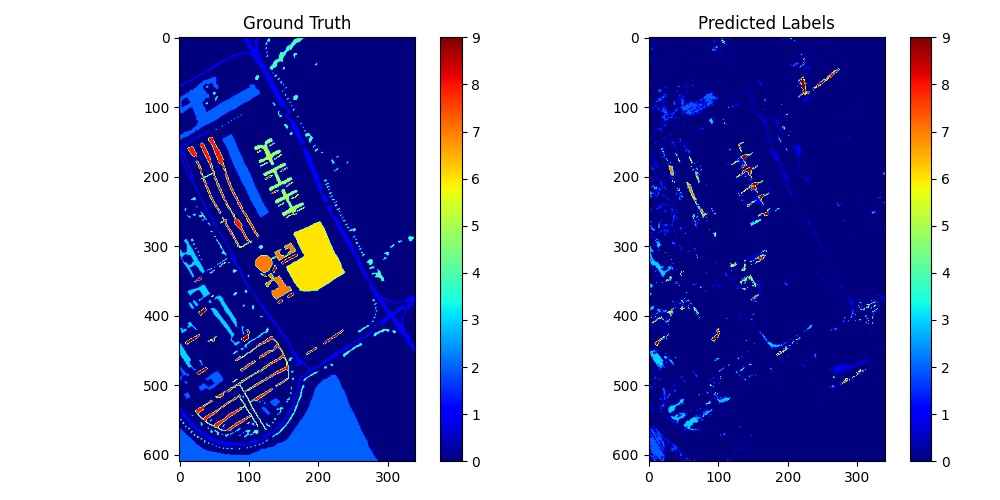
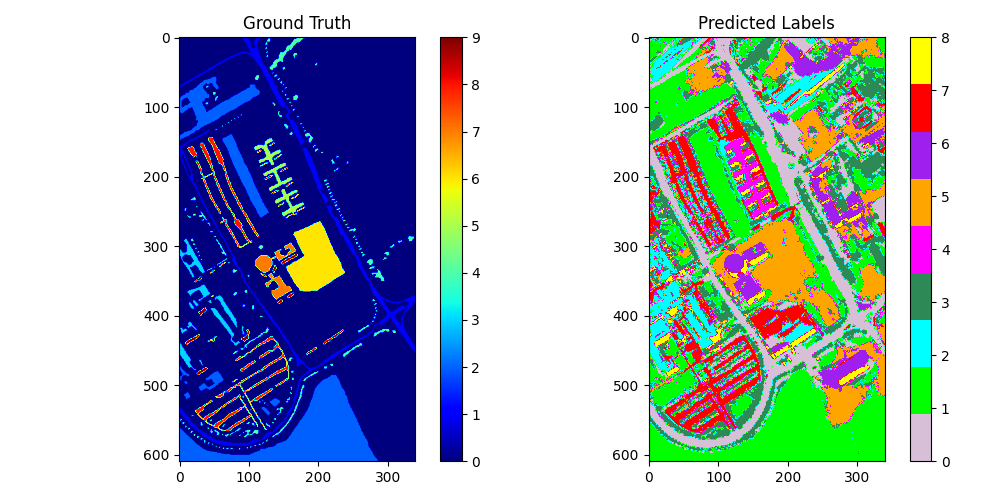
RPNet-MLP

Changed region(s): [[0.651, 0.06, 0.961, 0.93]]

diff --git a/main.py b/main.py
@@ -17,9 +17,11 @@ import numpy as np
 from sklearn.metrics import classification_report, confusion_matrix
 from utlils import *
 from model import MLP
+from matplotlib.colors import ListedColormap
+device = torch.device("cuda" if torch.cuda.is_available() else "cpu")  # 检查是否有GPU可用
 
 def train_mlp(X_train, y_train, X_test, y_test, input_size, hidden_size, num_classes, epochs=20, learning_rate=0.001):
-    device = torch.device("cuda" if torch.cuda.is_available() else "cpu")  # 检查是否有GPU可用
+    
 
     # 初始化模型并移至GPU
     model = MLP(input_size, hidden_size, num_classes).to(device)
@@ -32,6 +34,11 @@ def train_mlp(X_train, y_train, X_test, y_test, input_size, hidden_size, num_cla
     X_test = torch.from_numpy(X_test).float().to(device)
     y_test = torch.from_numpy(y_test).long().to(device)
 
+    # 记录训练集和测试集的损失
+    train_loss_list = []
+    test_loss_list = []
+    test_accuracy_list = []
+
     # 开始训练
     for epoch in range(epochs):
         model.train()  # 设置模型为训练模式
@@ -40,10 +47,33 @@ def train_mlp(X_train, y_train, X_test, y_test, input_size, hidden_size, num_cla
         loss = criterion(outputs, y_train)  # 计算损失
         loss.backward()  # 反向传播
         optimizer.step()  # 更新参数
+        train_loss_list.append(loss.item())
+
+        # 测试集评估
+        model.eval()  # 设置模型为评估模式
+        with torch.no_grad():
+            test_outputs = model(X_test)
+            test_loss = criterion(test_outputs, y_test)
+            test_loss_list.append(test_loss.item())
+            
+            _, predicted = torch.max(test_outputs.data, 1)  # 获取预测值
+            test_accuracy = accuracy_score(y_test.cpu().numpy(), predicted.cpu().numpy())
+            test_accuracy_list.append(test_accuracy)
 
         if (epoch+1) % 5 == 0:
-            print(f'Epoch [{epoch+1}/{epochs}], Loss: {loss.item():.4f}')
-    
+            print(f'Epoch [{epoch+1}/{epochs}], Train Loss: {train_loss_list[-1]:.4f}, Test Loss: {test_loss_list[-1]:.4f}, Test Accuracy: {test_accuracy * 100:.2f}%')
+
+    # 绘制loss曲线
+    plt.figure(figsize=(10, 6))
+    plt.plot(range(epochs), train_loss_list, label='Train Loss')
+    plt.plot(range(epochs), test_loss_list, label='Test Loss')
+    plt.xlabel('Epoch')
+    plt.ylabel('Loss')
+    plt.legend()
+    plt.title('Training and Testing Loss')
+    plt.savefig('loss_curve.png')
+    plt.show()
+
     # 评估模型
     model.eval()  # 设置模型为评估模式
     with torch.no_grad():
@@ -67,16 +97,15 @@ def train_mlp(X_train, y_train, X_test, y_test, input_size, hidden_size, num_cla
         plt.title('Confusion Matrix')
         plt.savefig('confusion_matrix.png')
         
-        print(f'Accuracy: {accuracy * 100:.2f}%')
-        print(f'Kappa: {kappa:.4f}')
+        print(f'Final Accuracy: {accuracy * 100:.2f}%')
+        print(f'Final Kappa: {kappa:.4f}')
     
     return model
-
-
 if __name__ == '__main__':
     parser = argparse.ArgumentParser(description='Land Cover Classification')
     parser.add_argument('--dataset', type=str, default='paviaU', help='dataset name (default: paviaU)')
-    parser.add_argument('--layer_num', type=int, default=4, help='number of Random Patches layers (default: 4)')
+    parser.add_argument('--layer_num', type=int, default=5, help='number of Random Patches layers')
+    parser.add_argument('--num_components', type=int, default=3, help='number of PCA components')
     args = parser.parse_args()
 
     #load data
@@ -90,7 +119,7 @@ if __name__ == '__main__':
         print('Invalid dataset name')
 
     #pca whitening
-    num_components = 3
+    num_components = 8
     data_pca = apply_PCA_Whitening(data, num_components)
     print('PCA Whitening done')
     print('PCA Whitened data shape:', data_pca.shape)
@@ -111,21 +140,72 @@ if __name__ == '__main__':
     # Flatten feature map for SVM input
     rpnet_features = RPNet_feature_map.numpy().reshape(-1, RPNet_feature_map.size(2))
     labels = ground_truth.flatten()
+    
+    # 选择非0类的所有样本
+    non_zero_indices = np.where(labels != 0)[0]
 
+    # 使用这些索引获取新的平衡后的labels
+    labels = labels[non_zero_indices] -1
+    rpnet_features = rpnet_features[non_zero_indices]
     # Split data into train and test sets
-    X_train, X_test, y_train, y_test = train_test_split(rpnet_features, labels, test_size=0.8, random_state=42, stratify=labels)
+    X_train, X_test, y_train, y_test = train_test_split(rpnet_features, labels, test_size=0.9, random_state=42, stratify=labels)
 
     # MLP参数
     input_size = X_train.shape[1]   # 输入特征的大小
     hidden_size = 4096      # 隐藏层神经元个数
-    num_classes = len(np.unique(labels))  # 分类的类别数
+    num_classes = len(np.unique(labels)) # 分类的类别数
     
     # 训练MLP模型
-    model = train_mlp(X_train, y_train, X_test, y_test, input_size, hidden_size, num_classes, epochs=400, learning_rate=1e-3)
+    model = train_mlp(X_train, y_train, X_test, y_test, input_size, hidden_size, num_classes, epochs=100, learning_rate=1e-3)
     # Save model
     torch.save(model.state_dict(), f'RPNet_MLP_{args.dataset}.pth')
     print('Model saved')
+    # 评估模型
+    model.eval()  # 设置模型为评估模式
+    X = torch.from_numpy(RPNet_feature_map.numpy().reshape(-1, RPNet_feature_map.size(2))).float().to(device)
+    with torch.no_grad():
+        outputs = model(X)
+        _, predicted = torch.max(outputs.data, 1)  # 获取预测值
+        
+        
+        # 绘制预测结果, 将ground_truth和predicted_labels绘制在一个图片中
+        predicted_labels = predicted.cpu().numpy()
+        # reshape predicted_labels
+        predicted_labels = predicted_labels.reshape(ground_truth.shape)
+        # 定义颜色调色板
+        palette = np.array([
+            [216, 191, 216],
+            [0, 255, 0],
+            [0, 255, 255],
+            [45, 138, 86],
+            [255, 0, 255],
+            [255, 165, 0],
+            [159, 31, 239],
+            [255, 0, 0],
+            [255, 255, 0]
+        ])
 
+        # 将颜色转换为范围 [0, 1] 之间的浮点数
+        palette = palette / 255.0
+
+        # 创建自定义颜色映射
+        cmap_custom = ListedColormap(palette)
+        plt.figure(figsize=(10, 5))
+
+        # 绘制真实标签
+        plt.subplot(1, 2, 1)
+        plt.title('Ground Truth')
+        plt.imshow(ground_truth, cmap='jet')
+        plt.colorbar()
+
+        # 绘制预测标签
+        plt.subplot(1, 2, 2)
+        plt.title('Predicted Labels')
+        plt.imshow(predicted_labels, cmap=cmap_custom)
+        plt.colorbar()
+
+        plt.tight_layout()
+        plt.savefig('comparison.png')
     
 
     

diff --git a/test.py b/test.py
@@ -16,7 +16,8 @@ import seaborn as sns
 if __name__ == '__main__':
     parser = argparse.ArgumentParser(description='Land Cover Classification')
     parser.add_argument('--dataset', type=str, default='paviaU', help='dataset name (default: paviaU)')
-    parser.add_argument('--layer_num', type=int, default=4, help='number of Random Patches layers (default: 4)')
+    parser.add_argument('--layer_num', type=int, default=6, help='number of Random Patches layers (default: 4)')
+    parser.add_argument('--num_components', type=int, default=8, help='number of PCA components (default: 8)')
     args = parser.parse_args()
 
     #load data
@@ -30,7 +31,7 @@ if __name__ == '__main__':
         print('Invalid dataset name')
 
     #pca whitening
-    num_components = 3
+    num_components = args.num_components
     data_pca = apply_PCA_Whitening(data, num_components)
     print('PCA Whitening done')
     print('PCA Whitened data shape:', data_pca.shape)
@@ -51,7 +52,7 @@ if __name__ == '__main__':
     # Flatten feature map for SVM input
     rpnet_features = RPNet_feature_map.numpy().reshape(-1, RPNet_feature_map.size(2))
     labels = ground_truth.flatten()
-
+    
     device = torch.device("cuda" if torch.cuda.is_available() else "cpu")
     # Split data into train and test sets
     X_test = torch.from_numpy(rpnet_features).float().to(device)
@@ -59,7 +60,7 @@ if __name__ == '__main__':
     # MLP参数
     input_size = X_test.shape[1]   # 输入特征的大小
     hidden_size = 4096      # 隐藏层神经元个数
-    num_classes = len(np.unique(labels))  # 分类的类别数
+    num_classes = len(np.unique(labels)) - 1  # 分类的类别数
 
     
     model = MLP(input_size, hidden_size, num_classes).to(device)
@@ -69,8 +70,14 @@ if __name__ == '__main__':
     # 评估模型
     model.eval()  # 设置模型为评估模式
     with torch.no_grad():
-        outputs = model(X_test)
-        _, predicted = torch.max(outputs.data, 1)  # 获取预测值
+        outputs = torch.zeros_like(torch.from_numpy(labels))
+        for i in range(len(labels)):
+            if labels[i] != 0:
+                outputs[i] = torch.max( model(X_test[i]).data, 0)[1] + 1
+            else:
+                outputs[i] = 0
+        
+        predicted = outputs
         accuracy = accuracy_score(y_test.cpu().numpy(), predicted.cpu().numpy())
         kappa = cohen_kappa_score(y_test.cpu().numpy(), predicted.cpu().numpy())
         

diff --git a/utlils.py b/utlils.py
@@ -1,3 +1,4 @@
+import numpy as np
 import torch.nn.functional as F
 from sklearn.decomposition import PCA
 from matplotlib import pyplot as plt
@@ -32,27 +33,36 @@ def Random_patches_layer(data, patch_size=3, num_patches=50,padding=10):
     
     # 获取数据的形状 (h, w, num_bands)
     h, w, num_bands = data.shape
-
-    # 将数据 reshape 为 (1, num_bands, h, w) -> 4D 张量
-    data = data.permute(2, 0, 1).unsqueeze(0)
+    data = data.permute(2,0,1).unsqueeze(0)
+    
 
     # 计算填充的高度和宽度
-    pad_h = (patch_size - h % patch_size) % patch_size
-    pad_w = (patch_size - w % patch_size) % patch_size
+    pad_h = patch_size
+    pad_w = patch_size
 
     # 镜像填充 (pad=(左, 右, 上, 下))
     # 仅在右和下进行填充
-    padded_data = F.pad(data, pad=(0, pad_w, 0, pad_h), mode='reflect')  # (左, 右, 上, 下)
-    print('Padded data shape:', padded_data.shape)
-    # 提取补丁 (unfold 将图像分成补丁)
-    all_patches = padded_data.unfold(2, patch_size, patch_size).unfold(3, patch_size, patch_size)
+    padded_data = F.pad(data, pad=(pad_w, pad_w, pad_h, pad_h), mode='reflect')  # (左, 右, 上, 下)
     
-    # 调整形状为 (num_patches, patch_size, patch_size, num_bands)
-    all_patches = all_patches.contiguous().view(-1, num_bands, patch_size, patch_size)
+    # 提取补丁 
+    patches = []
+    for _ in range(num_patches):
+        # 随机选择中心像素的坐标
+        center_y = np.random.randint(pad_h, h + pad_h)
+        center_x = np.random.randint(pad_w, w + pad_w)
+        # 获取补丁的边界
+        y_start = center_y - patch_size // 2
+        y_end = center_y + patch_size // 2 + 1
+        x_start = center_x - patch_size // 2
+        x_end = center_x + patch_size // 2 + 1
+
+        # 提取补丁并保存
+        patch = padded_data[:,:,y_start:y_end, x_start:x_end].squeeze(0)
+        patches.append(patch)
+    all_patches = torch.stack(patches)
     
-    # 从所有补丁中随机选择 num_patches 个
-    random_indices = torch.randint(0, all_patches.size(0), (num_patches,))
-    selected_patches = all_patches[random_indices]
+    print('All patches shape:', all_patches.shape)
+    selected_patches = all_patches
 
 
     conv_output = F.conv2d(data, selected_patches, padding=padding)
